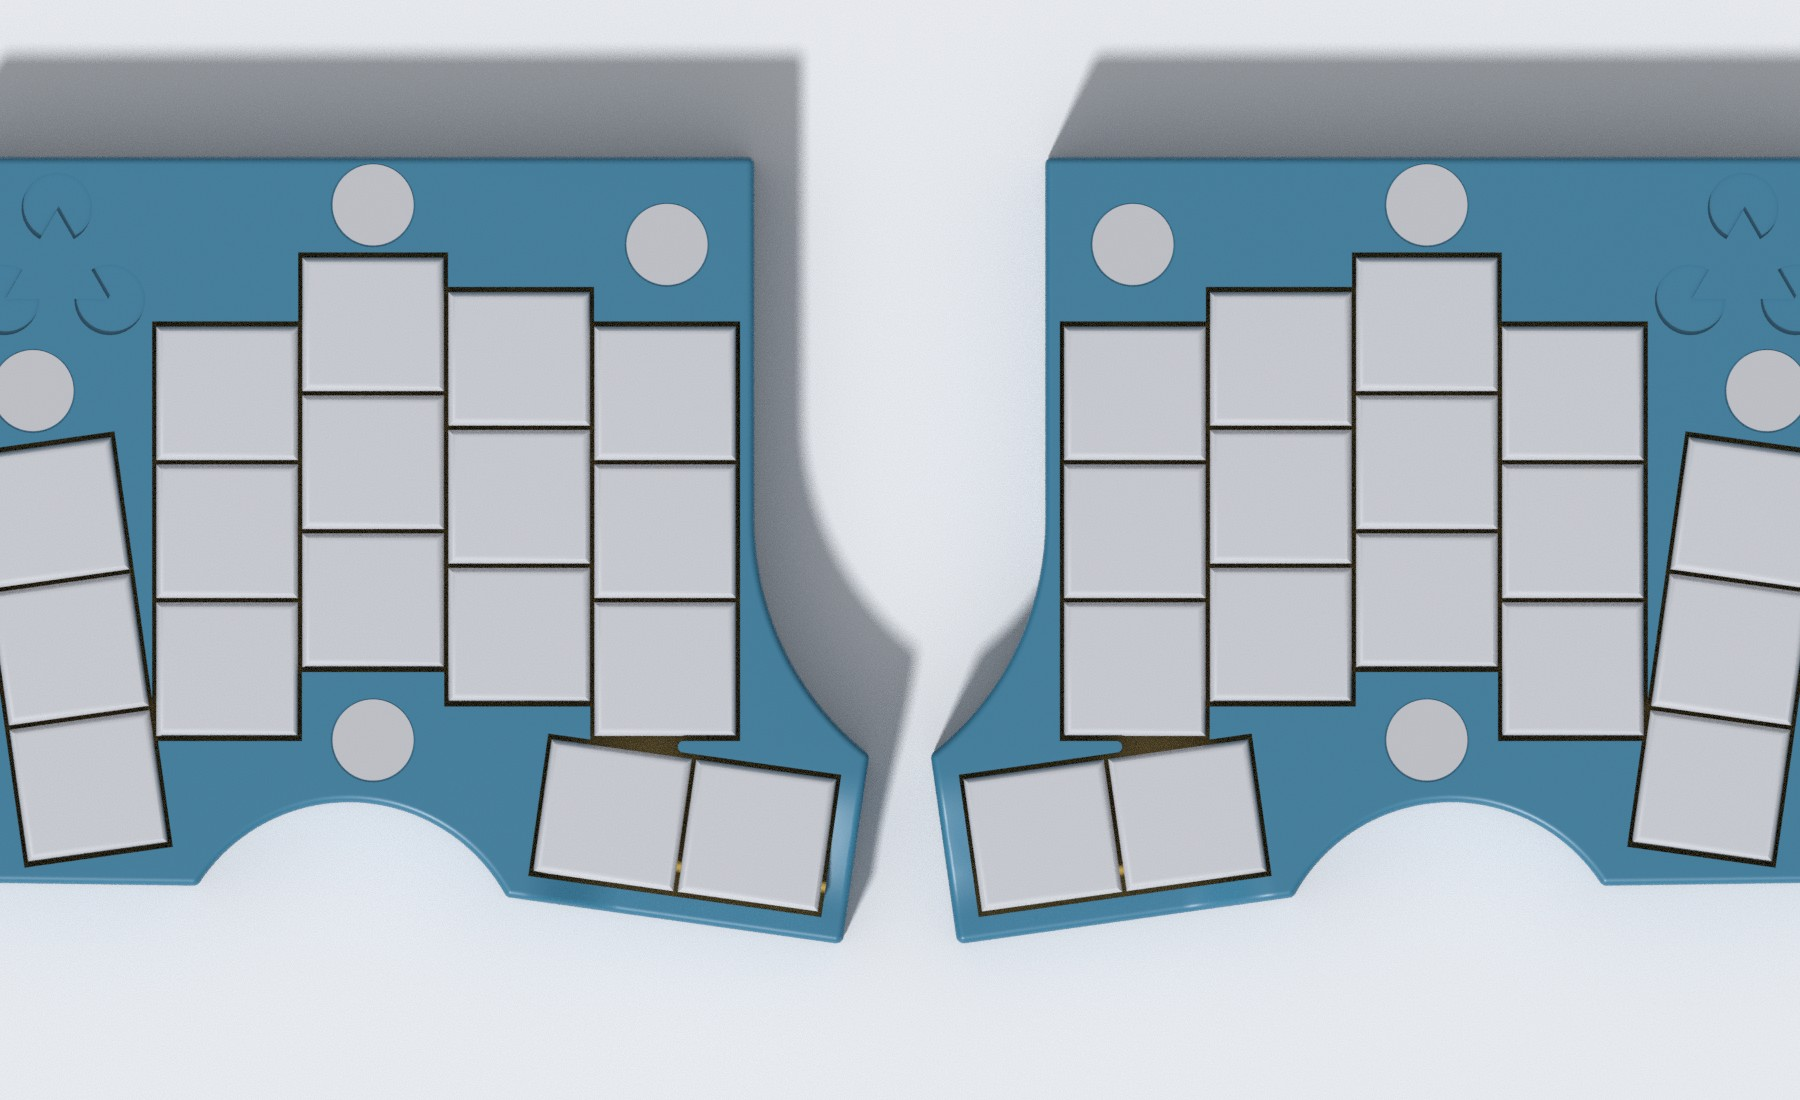
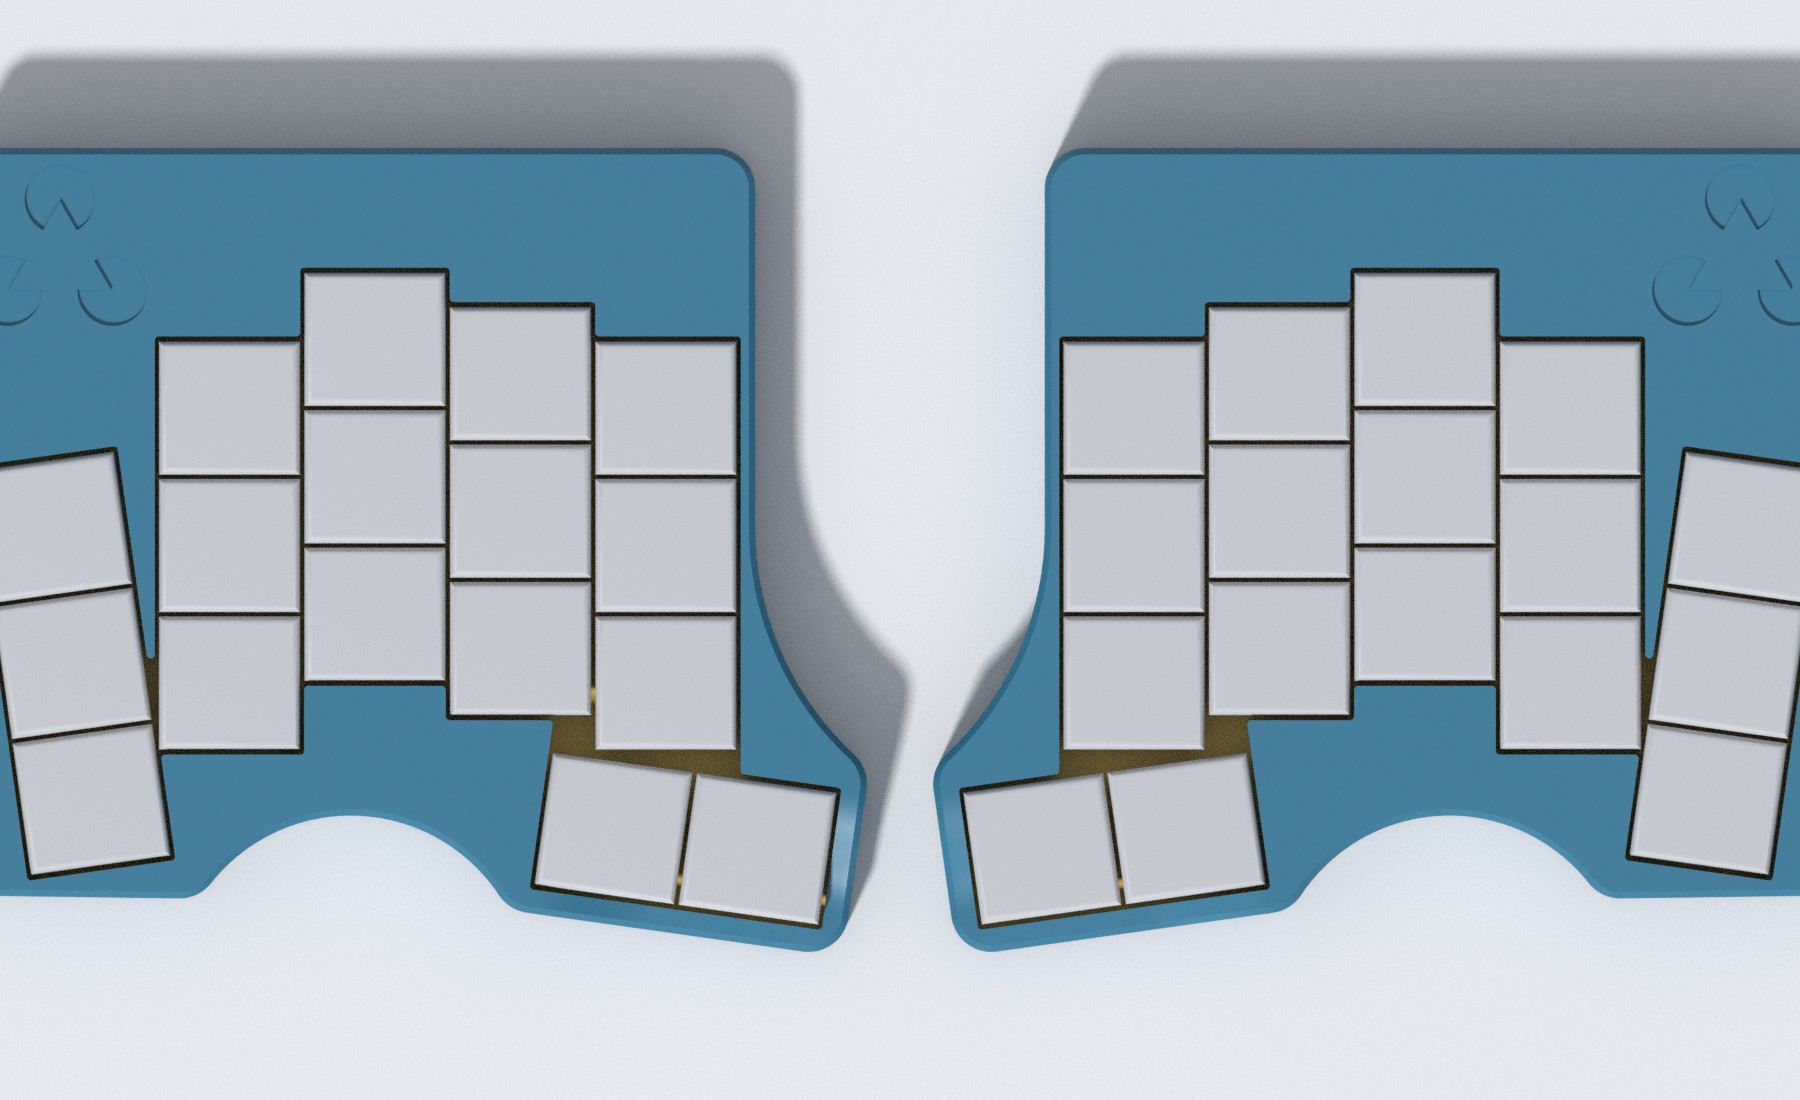
chore: render new images to match the internalized magnets

diff --git a/README.md b/README.md
@@ -39,7 +39,7 @@ Quantities are for both halves.
 - 2 Seeed XIAO nRF52840
 - 2 LiPo batteries, 31 x 17 x 6 mm
 - 2 slide power switches, 9 x 3.4 x 4 mm
-- 16 magnets, 5 x 2 mm (two stacked in each of 8 recesses)
+- 16 magnets, 10 mm diameter, 2 mm thick (two stacked in each of 8 pockets)
 - 12 M2 heat-set inserts, 3.5 mm outer diameter, 2 mm long
 - 12 low-profile M2 screws, 6 mm long
 - 10 rubber bumpers, 8 mm diameter
@@ -52,10 +52,12 @@ Check the repository of the keycaps for the files and the license.
 ## Printing
 
 Each half has three printed parts.
+The magnet spacers are a fourth kind of part, and both halves share them.
 
 - `keywell` is the top shell. Print it upside down.
 - `keyplate` holds the switches. Print it upside down.
 - `bottom` closes the case. Print it right side up.
+- `magnet_spacer` is a small disc. Print 8 of them, 4 for each half.
 
 Run `task build` to create the STEP files for all parts.
 Run `task coupons` to create the calibration coupons.
@@ -67,9 +69,9 @@ The fit depends on your printer, your material and your slicer.
 ## Assembly
 
 1. Press an M2 heat-set insert into each of the six holes of the keywell. Press each insert in until it is flush with the keywell face.
-2. Glue two magnets on top of each other into each magnet recess. See the section about polarity.
+2. Lay the keywell upside down. Glue two magnets on top of each other and put each pair into a magnet pocket from below. A thin skin of the keywell covers the magnets on the outside. See the section about polarity. Put a spacer disc on each pair of magnets.
 3. Wire the switches, the diodes, the XIAO, the power switch and the battery. Wiring is your choice. The keyplate has channels for the wire and the bottom plate has recesses for the switch pins and the diodes.
-4. Put the keyplate into the keywell, then put the bottom plate on top. Fasten the six M2 screws from the bottom.
+4. Put the keyplate into the keywell. It holds the spacers and the magnets. Then put the bottom plate on top. Fasten the six M2 screws from the bottom.
 5. Put the rubber bumpers into their recesses.
 
 Both halves are mostly mirror images of each other.
@@ -79,7 +81,8 @@ Both halves are mostly mirror images of each other.
 Only the relative polarity matters.
 Place the magnets in one half however you want.
 Use a magnetized tool to make sure the magnets in the other half face the opposite way.
-You cannot dry-fit the halves, because the magnets pull out of their recesses.
+Fit the keyplate before you bring the halves together.
+Without the spacers and the keyplate, magnets that repel each other push out of their pockets.
 
 ![Underside of both halves](docs/images/bottom.jpg)
 
@@ -96,6 +99,7 @@ Change the profile for every new printer, material or slicer.
 4. Copy the winning values into a `PrintProfile`.
 
 The coupons are built in their real print orientation.
+The magnet coupons have the skin on the print bed, like the keywell.
 They reuse the cutters from `models/features.py`.
 The coupons fit on a 180 mm print bed.
 
@@ -103,12 +107,22 @@ The coupons fit on a 180 mm print bed.
 | --- | --- |
 | A, switch plate | Which switch cutout size is right? Does corner relief help? |
 | B, plate in cavity | Which plate clearance is right? Try each plate both ways round. |
-| C, round holes | Which magnet recess size and which insert pilot size is right? |
-| D, pockets | Which XIAO pocket clearance is right? Does the battery fit? |
+| C, insert pilots | Which insert pilot size is right? Press an insert into each hole. |
+| D, pockets | Which XIAO pocket clearance is right? Which battery pocket clearance is right? Test the real battery. |
+| E, magnet pockets | Which magnet pocket size is right? The label is the pocket diameter. Push a stack of two magnets into each pocket. |
+| E, skin and mate | How thick can the skin over the magnets be? The label is the skin in mm. Put a stack of two magnets in a pocket, then hold a loose magnet on the skin side. |
+
+Print the mate of the skin coupon too.
+Put magnets in the pockets of both skin coupons, with opposite polarity.
+Turn one coupon over about its long side and hold the skins together.
+The pull through two skins is the pull between the two halves.
+Choose the thickest skin that still holds the halves as firmly as you want.
+Set it as `magnet_skin`.
+Set the pocket size as `magnet_clearance`.
 
 The case counters elephant foot with chamfers on the side that faces the print bed.
 `plate_bed_chamfer` sets the chamfer on the plate faces.
-`mouth_chamfer` sets the chamfer where switch cutouts and magnet recesses open towards the bed.
+`mouth_chamfer` sets the chamfer where switch cutouts open towards the bed and where the magnets enter their pockets.
 Sanding the plate edges along the z axis removes the layer ridges that rub on insertion.
 
 ## Build from source
